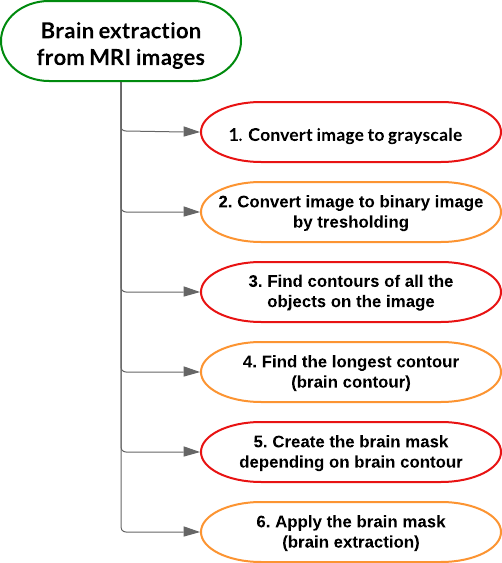
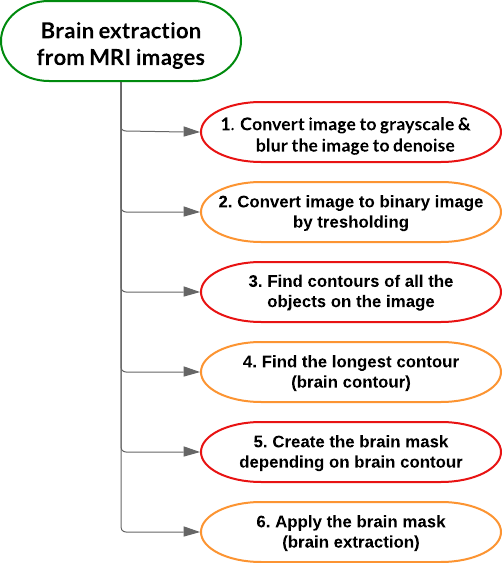
complete brain tissue segmentation on one image

Changed region(s): [[0.4482, 0.2114, 0.9562, 0.2718]]

diff --git a/2. Brain tissue segmentation/brain_tissue_seg.py b/2. Brain tissue segmentation/brain_tissue_seg.py
@@ -1,6 +1,6 @@
 ''''
     0. Input image
-    1. Convert image to grayscale (it is already)
+    1. Convert image to grayscale (it is already), & blur the image to denoise
     2. Convert image to binary image by tresholding
     3. Find contours of all the objects on the image
     4. Find the longest contour, cuz it will always represent the brain contour
